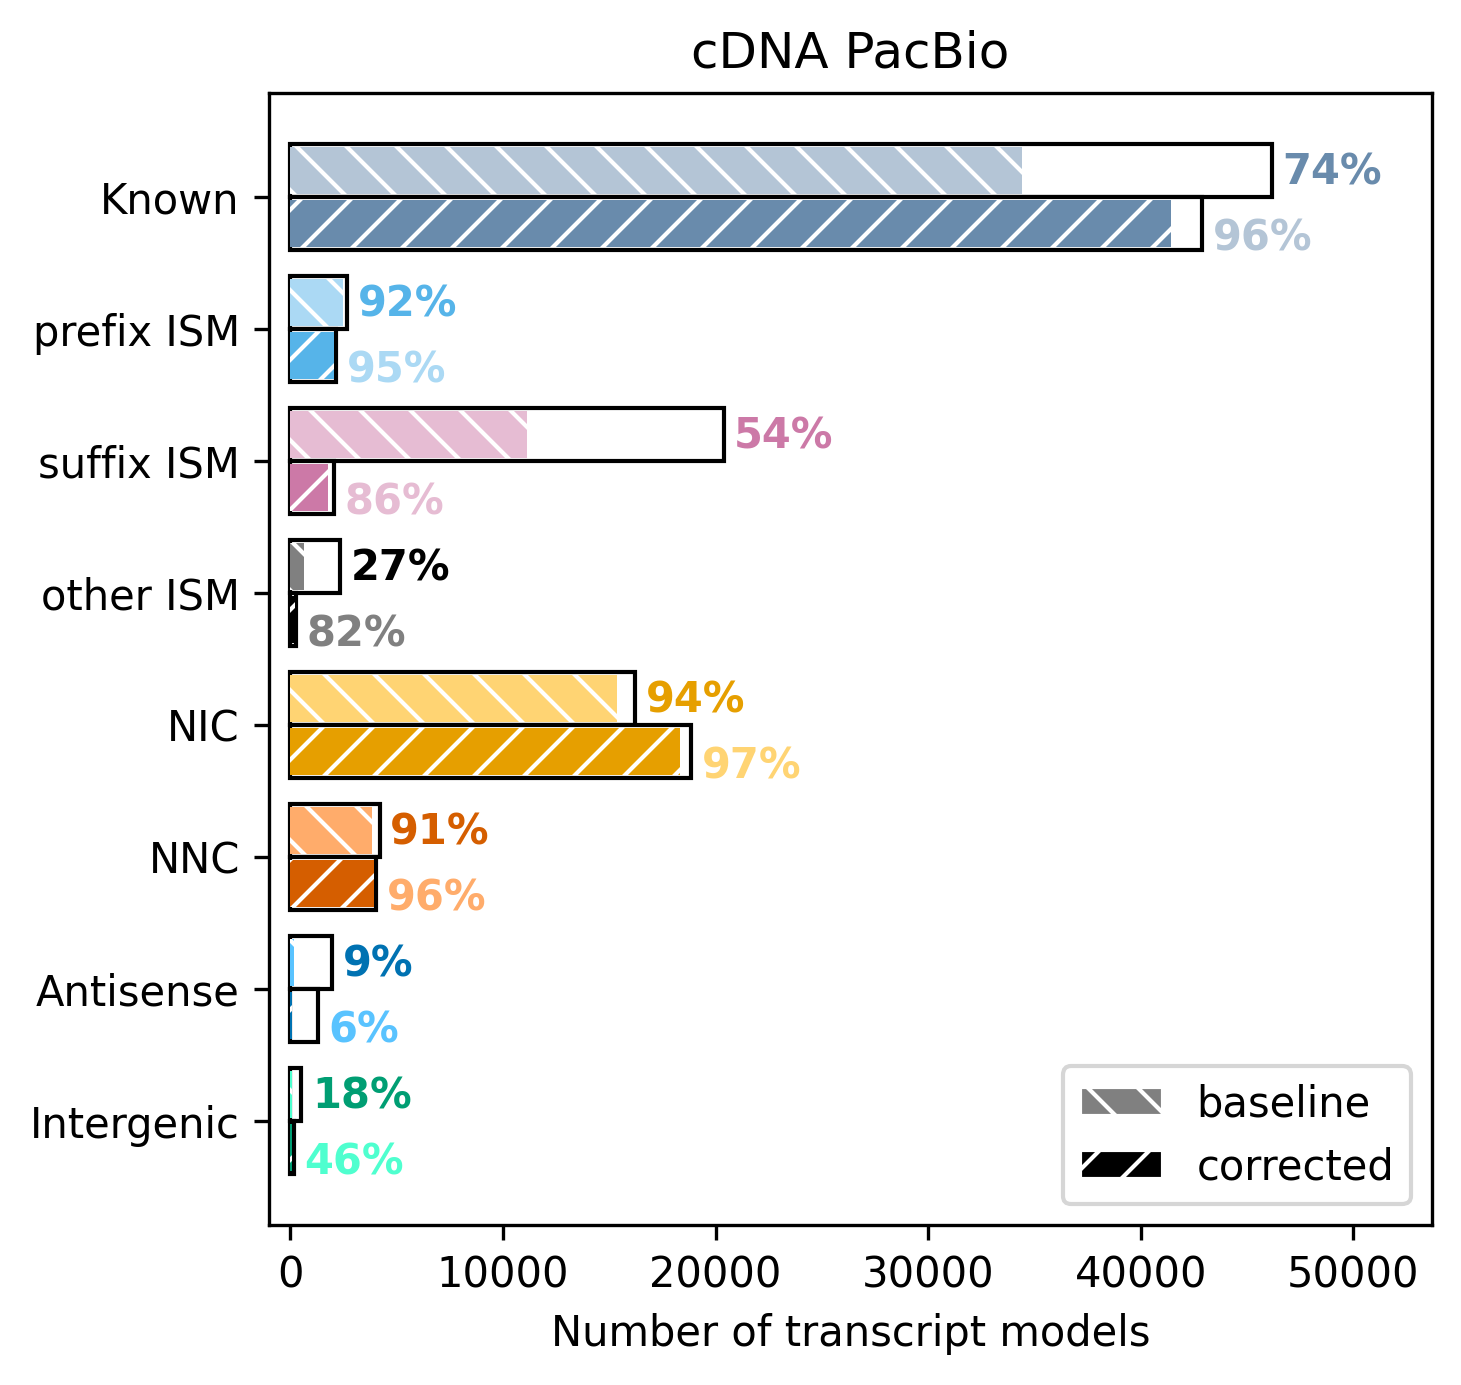
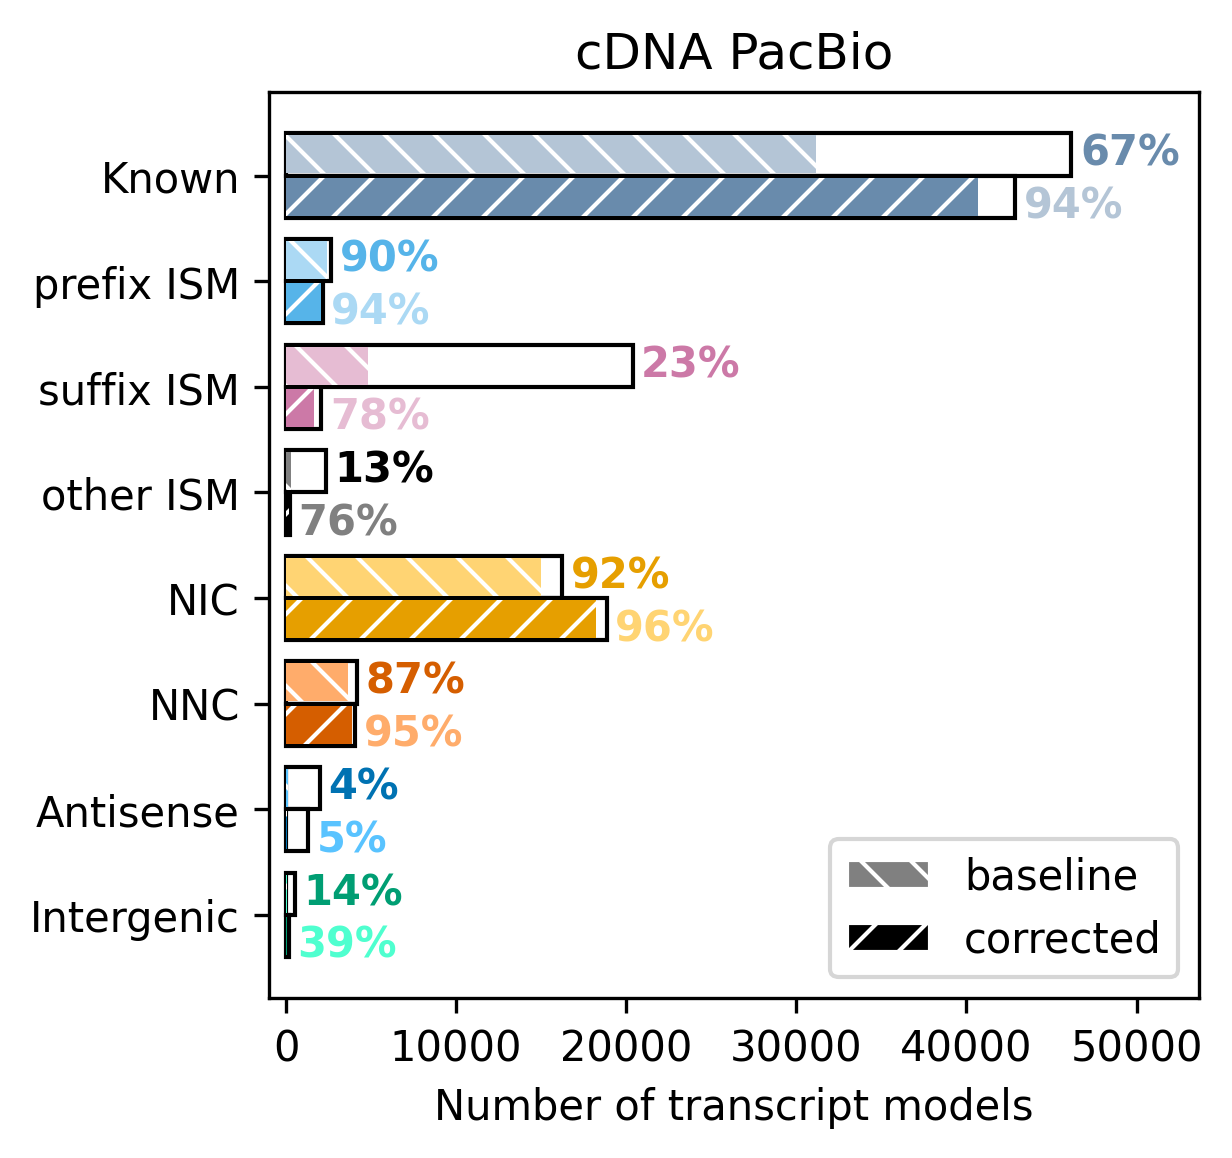
robust cage filtering

Changed region(s): [[0.0, 0.0, 0.987, 0.9948]]

diff --git a/workflow/common/overlap_cage_talon.py b/workflow/common/overlap_cage_talon.py
@@ -12,7 +12,10 @@ if len(samples):
         df_abundance[df_abundance[samples].sum(axis=1) > 0].index)
     gr_tss = gr_tss[gr_tss.transcript_id.isin(express_transcripts)]
 
-pr_cage = pr.read_bed(snakemake.input['cage'])
+pr_cage = pr.PyRanges(
+    pd.read_csv(snakemake.input['cage'], sep='\t', header=None).rename(
+        columns={0: 'Chromosome', 1: 'Start', 2: 'End', 5: 'Strand'})
+)
 
 # pr_cage.End = (pr_cage.Start + pr_cage.End) // 2
 
